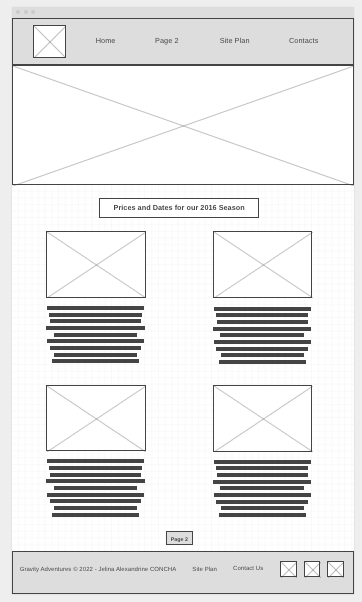
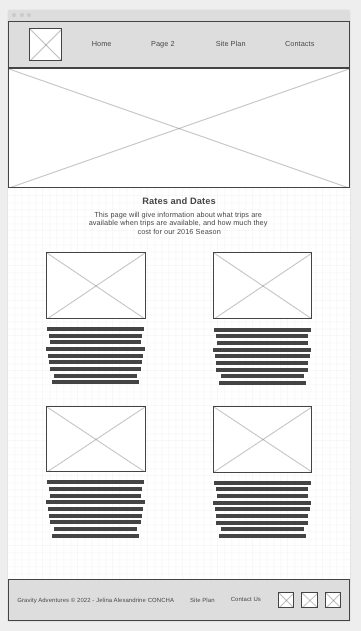
sub page final

diff --git a/wwr/subpage.html b/wwr/subpage.html
@@ -45,30 +45,59 @@
     <main class="page2-grid">
         <div>
             <h1 class= "page2-title"> Rates and Dates</h1>
+            <p> This page will give information about what trips are available,
+                when trips are available, and how much they cost for our 2016 Season.
+            </p>
         </div>
-
+        
         <section class="grand-canyon-card-1">
             <img class="card2-img" src="images/grandcanyon.jpeg" alt="grand canyon 3 nights">
-            <h2>Grand Cayon 1</h2>
-            <h5>text 1</h5>
+            <h5>GRAND CANYON THREE-NIGHT TRIP</h5>
+            <p>2016 Pricing trips: $1,475<br>
+                Trip Dates:<br>
+                April 30<br>
+                May 13, 20, 27, 30<br>
+                June 3, 10, 17, 24, 28<br>
+                July 1, 8, 15, 22, 29<br>
+                August 5, 12, 19, 26<br>
+                September 9, 17<br>
+            </p>
         </section>
         
         <section class="grand-canyon-card-2">
             <img class="card2-img" src="images/grandcanyon2.jpeg" alt="grand canyon 6 nights">
-            <h2>Grand Canyon 2</h2>
-            <h5>text 2</h5>
+            <h5>GRAND CANYON SIX-NIGHT TRIP</h5>
+            <p>(The dates listed will be the date that you spend the night in Marble Canyon. The launch date is the following day.)<br>
+                <br>Pricing trips: $2,550<br>
+                Trip Date:<br>
+                April 25 May 8, 15, 22, 25, 29<br>
+                June 5, 12, 19, 23, 26<br>
+                July 3, 10, 17, 24, 31<br>
+                August 7, 14, 21<br>
+                September 4, 12<br>
+            </p>
         </section>
         
         <section class="salmon-card">
             <img class="card2-img" src="images/salmon.jpeg" alt="salmon river">
-            <h2>Salmon River</h2>
-            <h5>text 3</h5>
+            <h5>SALMON RIVER FIVE-NIGHT TRIP </h5>
+            <p>(The dates listed will be the date that you spend the night in Salmon. The launch date is the following day.)<br>
+                <br>Pricing Regular Rate: $1,540<br>
+                Trip Dates:<br>
+                June 3, 10, 17, 24<br>
+                July 2<br>
+            </p>
         </section>
         
         <section class="desolation-card">
             <img class="card2-img" src="images/desolation.jpeg" alt="desolation night trip">
-            <h2>Desolation Trip</h2>
-            <h5>text 4</h5>
+            <h5>DESOLATION SIX-NIGHT TRIP</h5>
+            <p>Pricing Regular Rate: $1,790<br>
+                Trip Dates:<br>
+                July 10, 18, 26<br>
+                Aug 3, 11, 19, 27<br>
+                Sept 4<br>
+            </p>
         </section>
 
     </main>
@@ -77,6 +106,7 @@
         <p>Gravity Adventures &copy; 2022 - Jelina Alexandrine CONCHA</p>
         <p><a href="site-plan-rafting.html">Site Plan</a></p>
         <p><a href="contactus.html">Contact Us</a></p>
+        
         <div class="social">
             <a href="https://facebook.com" target="_blank">
                 <img src="images/facebook.png" alt="fb icon">

diff --git a/wwr/styles/style.css b/wwr/styles/style.css
@@ -5,6 +5,7 @@
   --paragraph-font: Quicksand, CormorantGaramond, sans-serif;
 }
 
+
 /* Home Page */
 
 body{
@@ -25,6 +26,7 @@ body{
 .home-grid{
     display: grid;
     margin-top: 40px;
+    grid-template-columns: 1fr 1fr 1fr 1fr 1fr 1fr 1fr 1fr 1fr 1fr;
 }
 
 h2 {
@@ -130,6 +132,7 @@ main section{
     grid-column: 6/10;
     grid-row: 6/7;
     box-shadow: 5px 5px 10px #A9A64C;
+    margin-bottom: 2%;
 }
 
 .msg2 h2{
@@ -243,32 +246,93 @@ main section img {
 }
 
 
+
 /* Sub Page */
 
 .page2-title{
     color: #806C3B;
-    font-size: 50px;
+    font-size: 60px;
     font-family: var(--heading-font);
     text-align: center;
 }
 
-.grand-canyon-card-1, .grand-canyon-card-2, .salmon-card, .desolation-card{
+.page2-grid h5{
+    color: #806C3B;
+    font-size: 40px;
+    font-family: var(--paragraph-font);
+    text-align: center;
+    margin-top: 10%;
+}
+
+.page2-grid p{
+    text-align: center;
+    font-family: var(--paragraph-font);
+    color: #C5A859;
+    font-size: 25px;
+    margin: 50px auto;
+    margin-top: -1%;
+    width: 60%;
+}
+
+.page2-grid{
     display: grid;
     grid-template-columns: 1fr 1fr;
     justify-items: center;
     grid-gap: 50px;
 }
 
-.grand-canyon-card-1, .grand-canyon-card-2{
-    width: 200px; 
-    height: 200px;
+.page2-grid div{
+    grid-column: 1/3;
+    grid-row: 1/2;
 }
 
-.salmon-card, .desolation-card{
-    width: 200px; 
-    height: 200px;
+.grand-canyon-card-1, .grand-canyon-card-2, .salmon-card, .desolation-card{
+    display: grid;
+    grid-template-columns: 1fr;
+    justify-items: center;
+    grid-gap: 0px;
+    width: 70%; 
+    height: 100%;
+    padding: 0px;
+    /*border: 1px solid black;*/
 }
 
+.grand-canyon-card-1 img, .grand-canyon-card-2 img, .salmon-card img, .desolation-card img{
+    width: 100%;
+    border: 10px solid #FAE675;
+}
+
+.grand-canyon-card-1{
+    grid-column: 1/2;
+    grid-row: 2/3;
+}
+
+.grand-canyon-card-2{
+    grid-column: 2/3;
+    grid-row: 2/3;
+}
+
+.salmon-card{
+    grid-column: 1/2;
+    grid-row: 3/4;
+}
+
+.desolation-card{
+    grid-column: 2/3;
+    grid-row: 3/4;
+}
+
+.grand-canyon-card-1 h5{
+    margin-top: -10%;
+}
+
+.desolation-card h5{
+    margin-top: -10%; 
+}
+
+
+
+/* For mobile device screen */
 
 @media screen and (max-width: 900px) {
     #hero, .home-grid {
